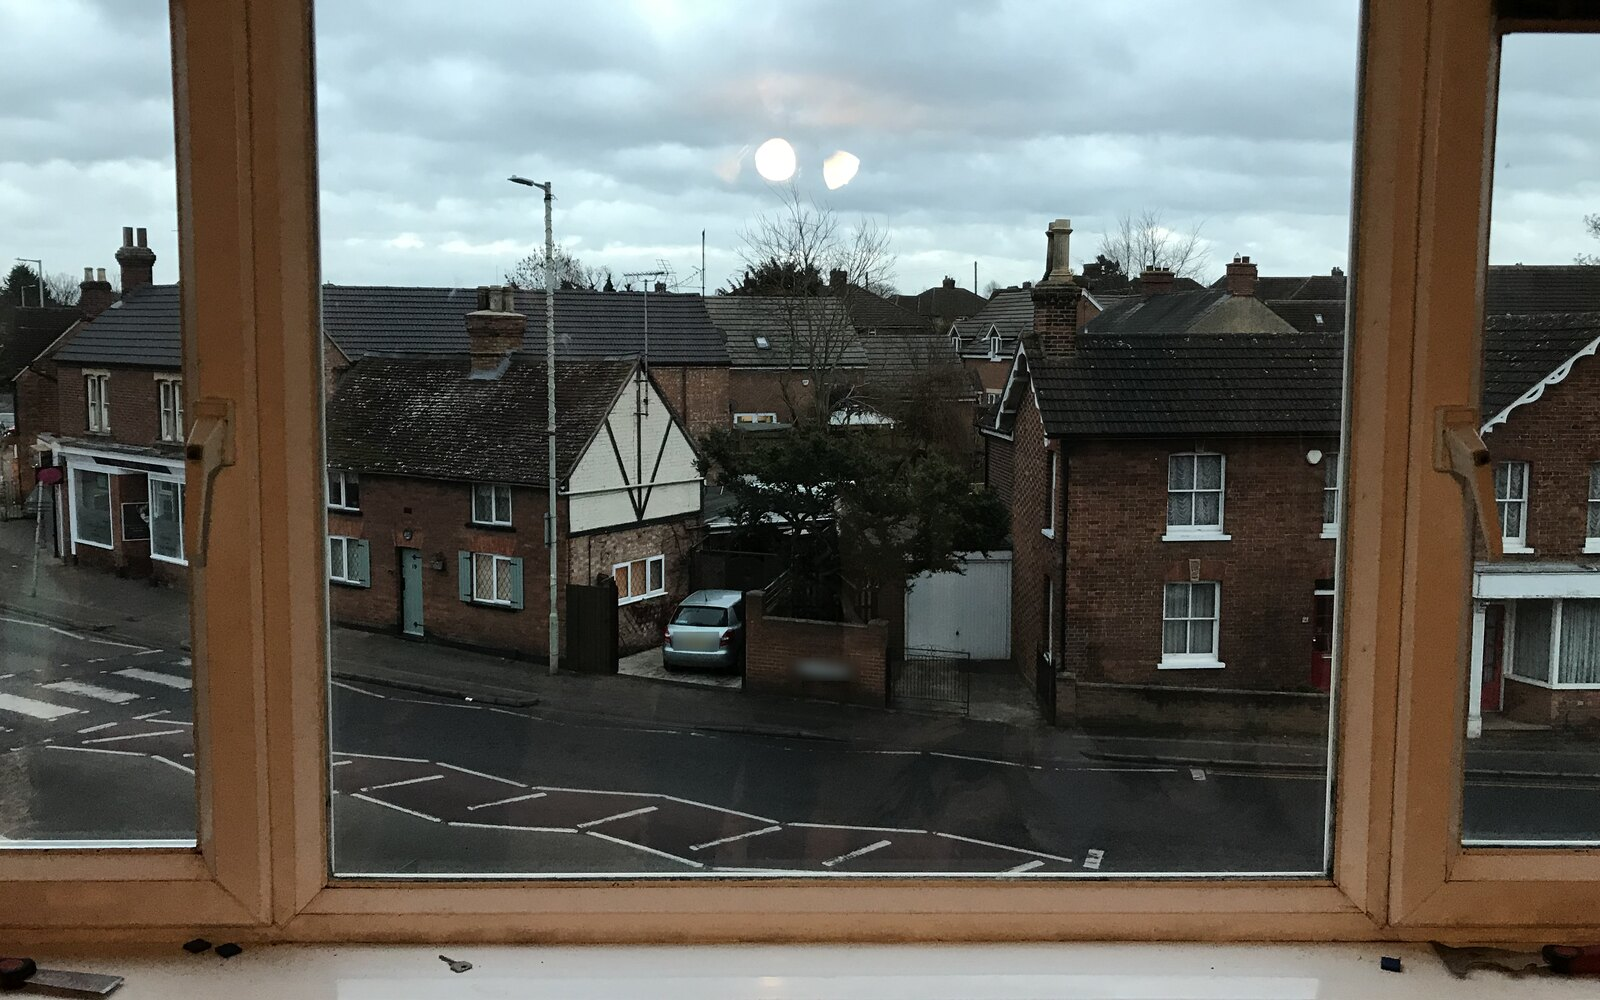
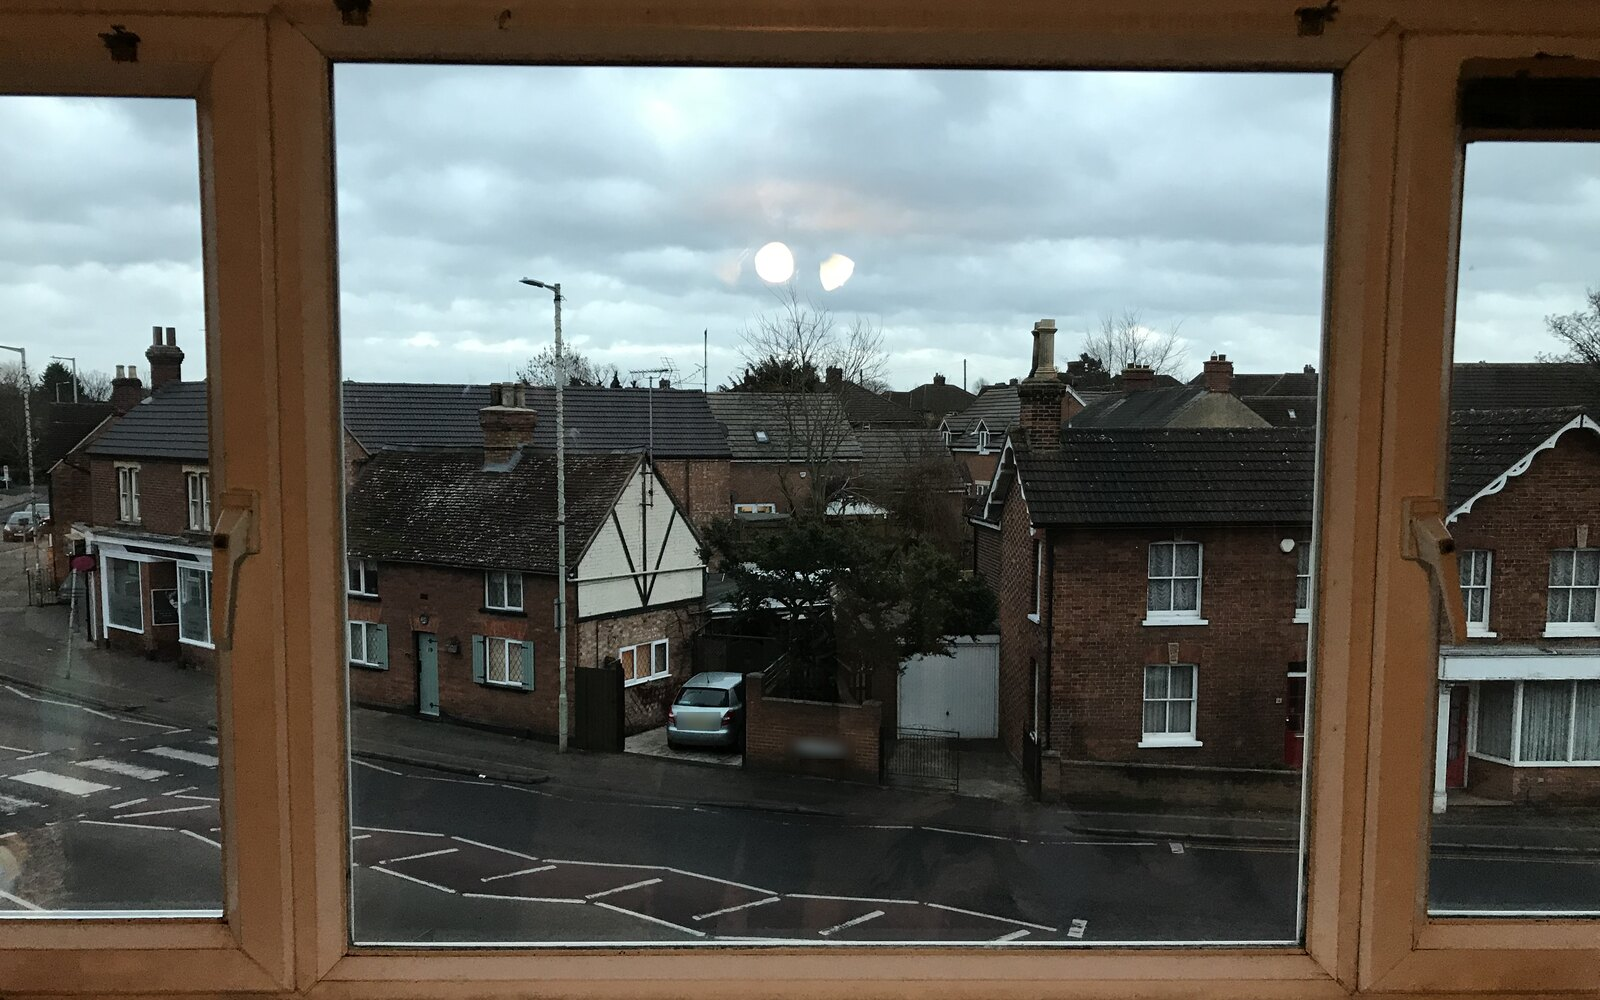
Replacement glazing: the wipe pair actually aligned, and less waffle
The owner: "the angles and zoom are wrong, you can make that align perfect!"
Both true, and the first attempt could never have worked. I measured a
translation and corrected for a translation; the two photographs differ by a
1.05 degree rotation and, far more importantly, a 22 percent scale change,
because the camera was further back for the misted shot.

Three automatic approaches failed before one worked, and the failures are worth
recording. Whole-image SIFT fitted the DISTANT VIEW through the clear side
panes rather than the frame, which is a different depth, so aligning it pulled
the frame apart. SIFT masked to the frame collapsed to 8 inliers and a
degenerate 75 degree solution, because plain painted timber has nothing to
match on. Template matching found 3 patches out of 214, because it assumes pure
translation and there was a 22 percent scale difference. Masked pyramid ECC ran
away from its seed entirely.

What worked was the structure actually in the photograph: the centre pane edges
are an enormous contrast step from oak frame to glass, in both frames,
regardless of what is behind the glass. Walk a profile across each of the four
edges, take the strongest step, fit a line, intersect for four corners, and
solve the perspective transform between them. Width and height agree on the
scale independently, 1.2176 and 1.216, which is the check that it is real.

Frame alignment improved 67.5 percent overall and up to 81 percent on a mullion,
[…]

diff --git a/app/public/wp-content/themes/fenster/template-parts/sections/replacement-glazing-v2.php b/app/public/wp-content/themes/fenster/template-parts/sections/replacement-glazing-v2.php
@@ -219,8 +219,14 @@ $takes_glass = [
                     </div>
                 <?php endforeach; ?>
             </dl>
+            <?php /* Was three sentences and the owner called it waffle, which it
+                     was. The warmth half of it was also saying the same thing as
+                     the "will new glass make the room warmer" FAQ, so it goes
+                     there and only there. What is left is the part that earns
+                     its place: we will talk you out of it, and it costs nothing
+                     to find out. */ ?>
             <p class="fg-rg-band__note">
-                <?php esc_html_e('Where a frame has gone soft or stopped closing properly, we will tell you, and whether it is worth putting new glass into varies window by window. If warmth is what you are after, say so at the survey: how much difference new glass makes depends on the frame around it, and we would rather be straight about that before you spend anything. The survey is free either way.', 'fenster'); ?>
+                <?php esc_html_e('If a frame has gone soft or stopped closing, we will say so rather than sell you glass for it. The survey is free either way.', 'fenster'); ?>
             </p>
         </div>
     </section>
